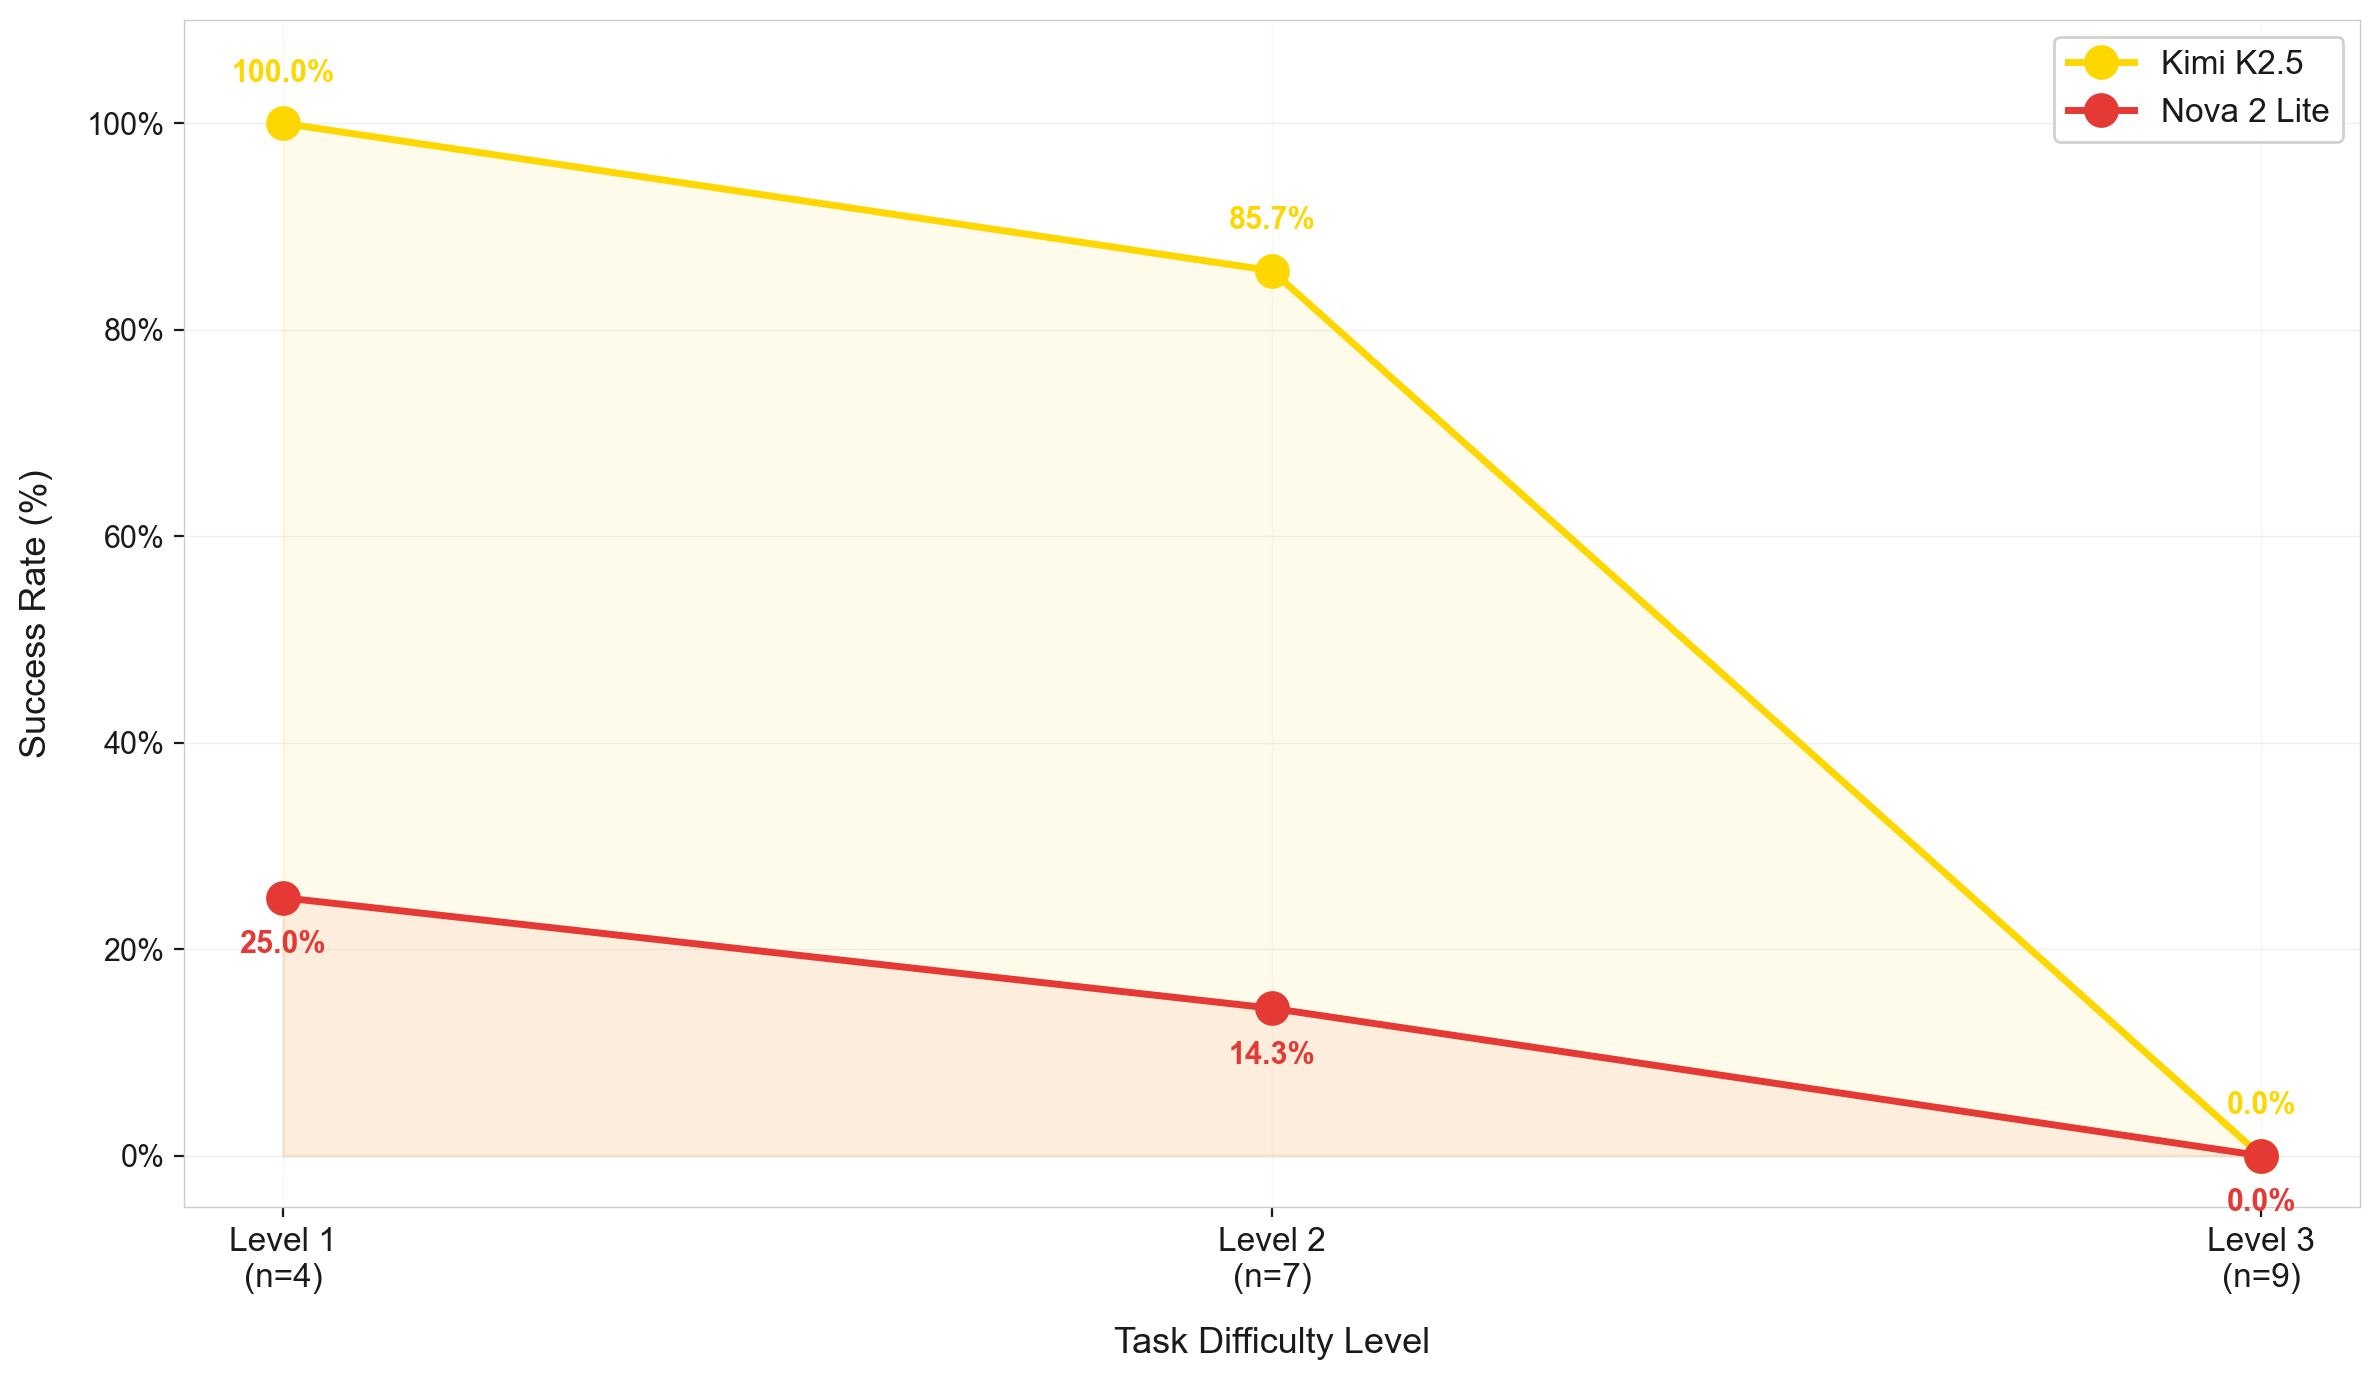
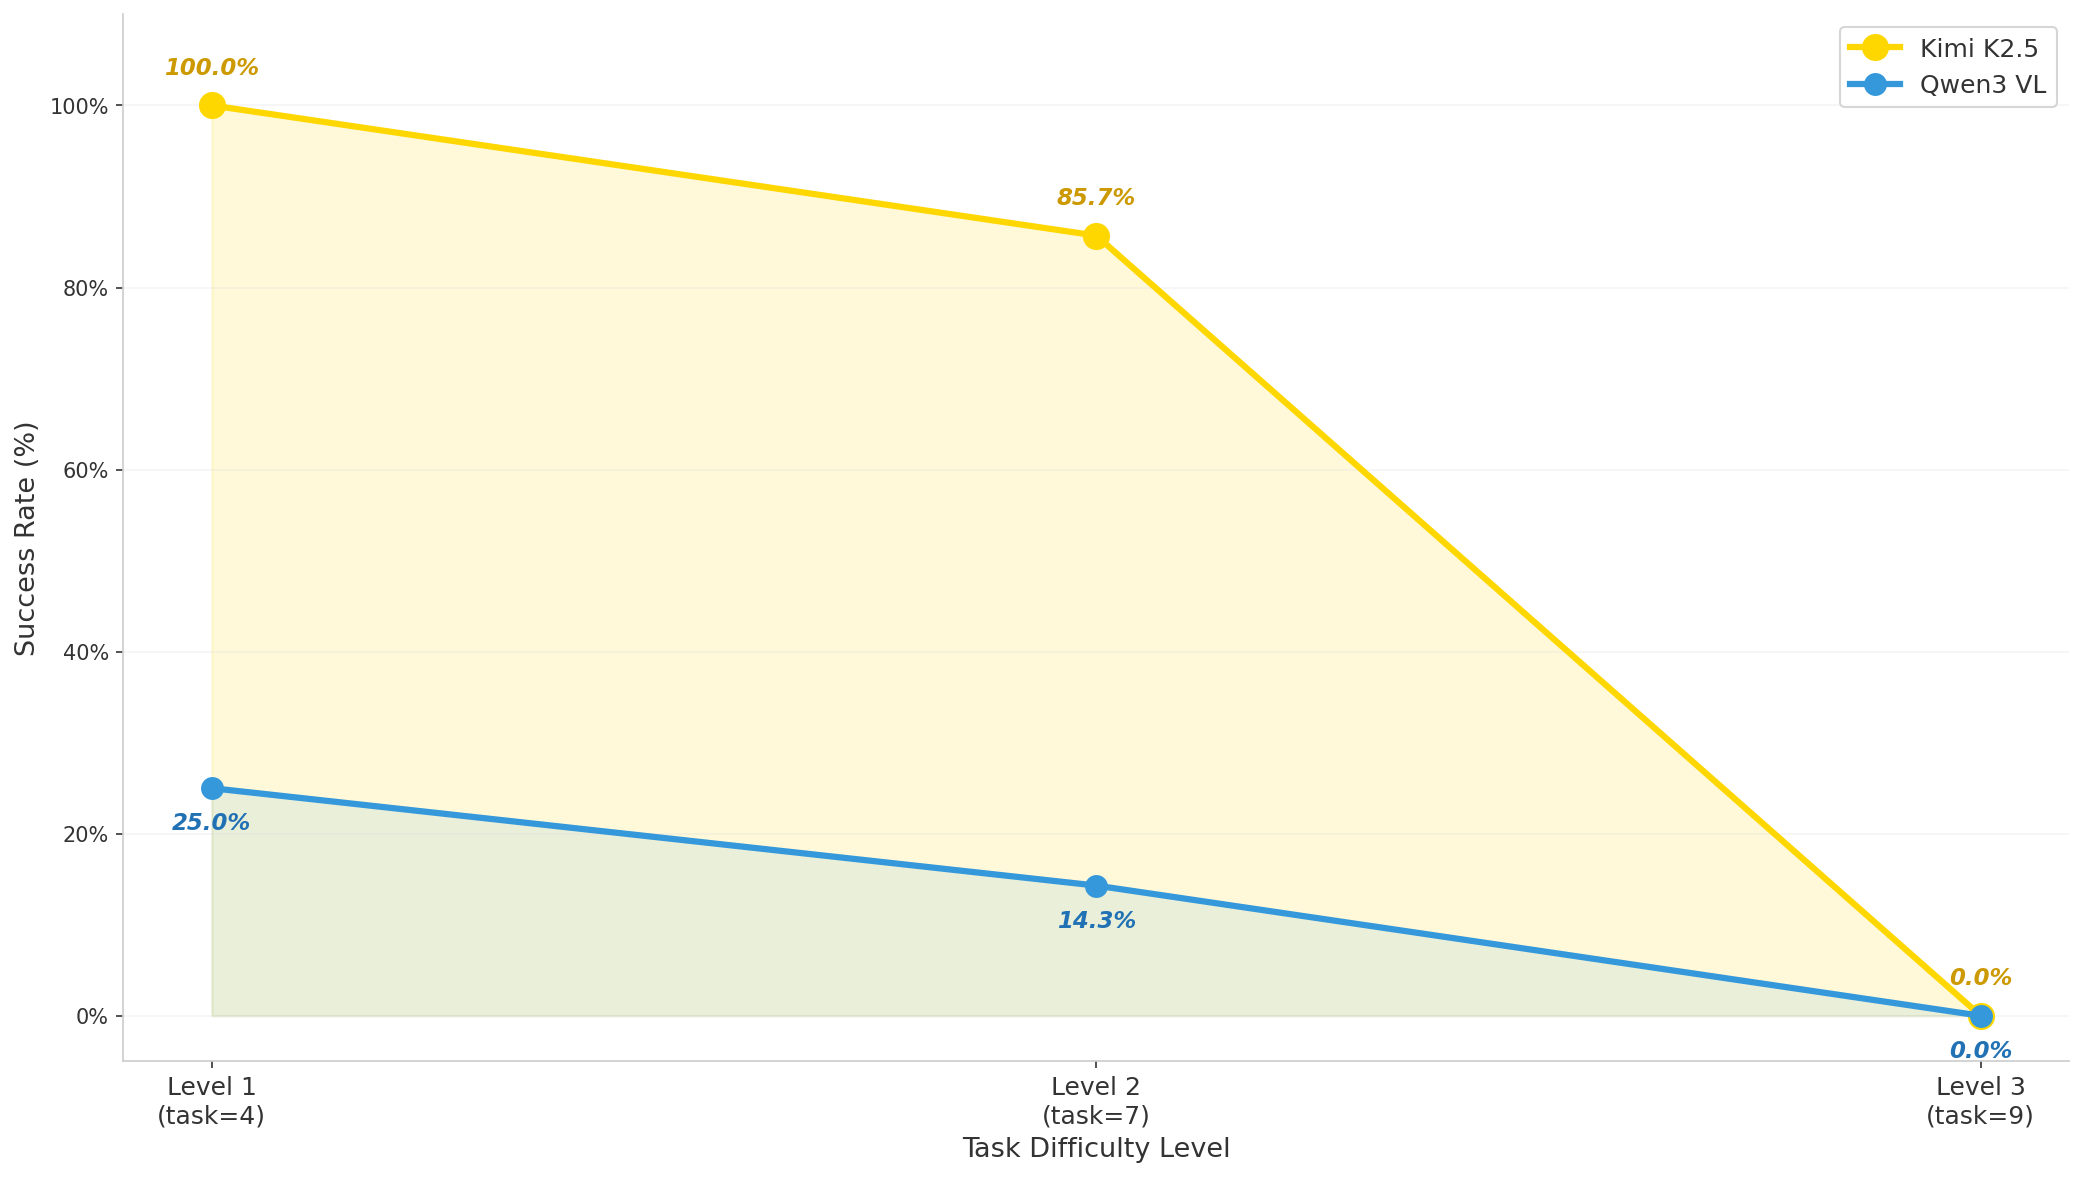
worked on nokor module changes

diff --git a/custom_addons/nokor_dashboard/static/src/portal/js/nokor_portal.js b/custom_addons/nokor_dashboard/static/src/portal/js/nokor_portal.js
@@ -310,7 +310,7 @@
 
     data.forEach(function (row) {
       if (row.kimi_k2_5 && row.kimi_k2_5.score) kimiPass++;
-      if (row.nova_2_lite && row.nova_2_lite.score) novaPass++;
+      if (row.qwen3_vl && row.qwen3_vl.score) novaPass++;
       if (row.level === 'Hard') hardCount++;
       else if (row.level === 'Very Hard') vhardCount++;
       else if (row.level === 'Expert') expertCount++;
@@ -358,7 +358,7 @@
       var items = data.filter(function (r) { return r.level === lvl.name; });
       var count = items.length;
       var kimiPass = items.filter(function (r) { return r.kimi_k2_5 && r.kimi_k2_5.score; }).length;
-      var novaPass = items.filter(function (r) { return r.nova_2_lite && r.nova_2_lite.score; }).length;
+      var novaPass = items.filter(function (r) { return r.qwen3_vl && r.qwen3_vl.score; }).length;
       var combinedPass = kimiPass + novaPass;
       var combinedTotal = count * 2;
       var kimiPct = count > 0 ? Math.round((kimiPass / count) * 100) : 0;
@@ -390,7 +390,7 @@
         var catItems = data.filter(function (r) { return r.category === cat; });
         var catTotal = catItems.length * 2;
         var catPass = catItems.filter(function (r) { return r.kimi_k2_5 && r.kimi_k2_5.score; }).length +
-                      catItems.filter(function (r) { return r.nova_2_lite && r.nova_2_lite.score; }).length;
+                      catItems.filter(function (r) { return r.qwen3_vl && r.qwen3_vl.score; }).length;
         var catPct = catTotal > 0 ? Math.round((catPass / catTotal) * 100) : 0;
         stripHtml += '<div class="mod-item"><span class="mod-pct">' + catPct + '%</span><span class="mod-name mono">' + formatCategory(cat) + '</span></div>';
       });
@@ -407,7 +407,7 @@
       var items = data.filter(function (r) { return r.level === lvlName; });
       var count = items.length;
       var kimiCorrect = items.filter(function (r) { return r.kimi_k2_5 && r.kimi_k2_5.score; }).length;
-      var novaCorrect = items.filter(function (r) { return r.nova_2_lite && r.nova_2_lite.score; }).length;
+      var novaCorrect = items.filter(function (r) { return r.qwen3_vl && r.qwen3_vl.score; }).length;
       var totalAttempts = count * 2;
       var totalPass = kimiCorrect + novaCorrect;
       var failPct = totalAttempts > 0 ? Math.round(((totalAttempts - totalPass) / totalAttempts) * 100) : 0;
@@ -461,9 +461,9 @@
           av = a.kimi_k2_5 ? (a.kimi_k2_5.score ? 1 : 0) : -1;
           bv = b.kimi_k2_5 ? (b.kimi_k2_5.score ? 1 : 0) : -1;
           return (av - bv) * dir;
-        case 'nova_pass':
-          av = a.nova_2_lite ? (a.nova_2_lite.score ? 1 : 0) : -1;
-          bv = b.nova_2_lite ? (b.nova_2_lite.score ? 1 : 0) : -1;
+        case 'qwen3_pass':
+          av = a.qwen3_vl ? (a.qwen3_vl.score ? 1 : 0) : -1;
+          bv = b.qwen3_vl ? (b.qwen3_vl.score ? 1 : 0) : -1;
           return (av - bv) * dir;
         default:
           return 0;
@@ -489,7 +489,7 @@
       var id = row.task_id;
       var shortId = id.length > 8 ? id.substring(0, 8) + '…' : id;
       var kimiScore = row.kimi_k2_5 ? row.kimi_k2_5.score : null;
-      var novaScore = row.nova_2_lite ? row.nova_2_lite.score : null;
+      var novaScore = row.qwen3_vl ? row.qwen3_vl.score : null;
       var diffClass = 'diff-badge diff-badge--' + row.level.toLowerCase().replace(/\s+/g, '-');
       var isExpanded = evalState.expanded[id];
 
@@ -532,14 +532,14 @@
           html += '</div>';
         }
 
-        // Nova-2-Lite
-        if (row.nova_2_lite) {
+        // Qwen3-VL
+        if (row.qwen3_vl) {
           html += '<div class="detail-block">';
-          html += '<div class="detail-block-title">Nova-2-Lite</div>';
-          html += '<div class="detail-row-item"><span class="detail-key">Score</span><span class="detail-val">' + scoreBadge(row.nova_2_lite.score) + '</span></div>';
-          html += '<div class="detail-row-item detail-row-item--answer"><span class="detail-key">Answer</span><span class="detail-val">' + renderAnswerCell(String(row.nova_2_lite.model_answer || ''), id + '-nova') + '</span></div>';
-          html += '<div class="detail-row-item"><span class="detail-key">LLM Calls</span><span class="detail-val">' + (row.nova_2_lite.llm_calls || 0) + '</span></div>';
-          html += '<div class="detail-row-item"><span class="detail-key">Avg Latency</span><span class="detail-val">' + (row.nova_2_lite.avg_latency_seconds || 0).toFixed(2) + 's</span></div>';
+          html += '<div class="detail-block-title">Qwen3-VL</div>';
+          html += '<div class="detail-row-item"><span class="detail-key">Score</span><span class="detail-val">' + scoreBadge(row.qwen3_vl.score) + '</span></div>';
+          html += '<div class="detail-row-item detail-row-item--answer"><span class="detail-key">Answer</span><span class="detail-val">' + renderAnswerCell(String(row.qwen3_vl.model_answer || ''), id + '-nova') + '</span></div>';
+          html += '<div class="detail-row-item"><span class="detail-key">LLM Calls</span><span class="detail-val">' + (row.qwen3_vl.llm_calls || 0) + '</span></div>';
+          html += '<div class="detail-row-item"><span class="detail-key">Avg Latency</span><span class="detail-val">' + (row.qwen3_vl.avg_latency_seconds || 0).toFixed(2) + 's</span></div>';
           html += '</div>';
         }
 
